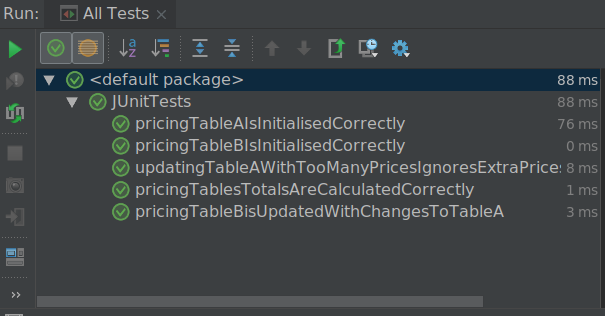
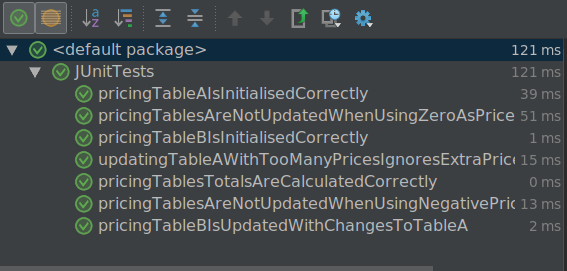
Done for the most part

diff --git a/src/com/company/JUnitTests.java b/src/com/company/JUnitTests.java
@@ -17,11 +17,11 @@ not concerned solely with whether or not the test works, but also with how tidy,
 
 Some scenarios are not covered because the way that I modelled the tables, for example;
 
-- Updating variety price on Table A with a non-numerical character. Java expects doubles for prices so it won't allow it.
-- Updating variety price on Table A with a null value. Same as above.
+- Updating variety price on Table A with a non-numerical character -> Java expects doubles for prices so it won't allow it.
+- Updating variety price on Table A with a null value -> Same as above.
+- Updating variety price on Table A for shaded areas -> The method that updates product prices (rows) prevents that.
 
 Find below the tests that I could devise for the Pricing Tables functionality.
-
  */
 
 public class JUnitTests {
@@ -54,7 +54,7 @@ public class JUnitTests {
     }
 
     @Test
-    public void pricingTableBisUpdatedWithChangesToTableA() {
+    public void pricingTableBIsUpdatedWithChangesToTableA() {
         PricingTable pricingTableA = new PricingTable();
         PricingTable pricingTableB = new PricingTable(pricingTableA);
         LinkedList<Double> newValues = new LinkedList<>();
@@ -103,7 +103,7 @@ public class JUnitTests {
         newValues.add(6.0);
         newValues.add(6.0);
         newValues.add(6.0);
-        // The following additions to the list does not break the test. The model only allows
+        // The following additions to the list do not break the test. The model only allows
         // entering three prices to product2. Any subsequent prices added to the list are ignored.
         newValues.add(111.0);
         newValues.add(111.0);

diff --git a/README.md b/README.md
@@ -1,4 +1,4 @@
-## Part 2
+#### Part 2
 Table A below represents an example of a pricing table containing a number of products and their varieties.
 The prices of these products are in pounds sterling.
 
@@ -10,24 +10,31 @@ The shaded cells should not contain values.
 The value in each cell in the bottom row is equal to the sum of the values in the corresponding column.
 
 Table A - Prices in Sterling
-          Variety 1 Variety 2 Variety 3 Variety 4
-Product 1 10        12        14        45
-Product 2 20        15        24
-Product 3 22        60
-Product 4 28
-Total     80        87        38        45
+
+|   | Variety 1  | Variety 2  | Variety 3  | Variety 4 |
+|---|---|---|---|---|
+| Product1 | 10  | 12  | 14  | 45 |
+| Product2 | 20  | 15  | 24  |   |
+| Product3 | 22  | 60  |   |   |
+| Product4 | 28  |   |   |   |
+| Total | 80  | 130.5  | 38  | 45 |
 
 Table B - Prices in Euro
-          Variety 1 Variety 2 Variety 3 Variety 4
-Product 1 15        18        21        67.5
-Product 2 30        22.5      36
-Product 3 33        90
-Product 4 42
-Total     120       130.5     57        67.5
+
+|   | Variety 1  | Variety 2  | Variety 3  | Variety 4 |
+|---|---|---|---|---|
+| Product1 | 15  | 18  | 21  | 67.5 |
+| Product2 | 30  | 22.5  | 36  |   |
+| Product3 | 33  | 90  |   |   |
+| Product4 | 42  |   |   |   |
+| Total | 120  | 130.5  | 57  | 67.5 |
 
 Exercise: write a test to check the correctness of Table B in relation to Table A. Consideration should be given
 to the variety of possible errors conditions within other real-world data, and how these can be tested. We are
 not concerned solely with whether or not the test works, but also with how tidy, structured and robust it is.
+
+
+This shows "evidence" of the tests run (if you can believe a picture :smile: )
 
 ![picture](./report_pic.png)
 
